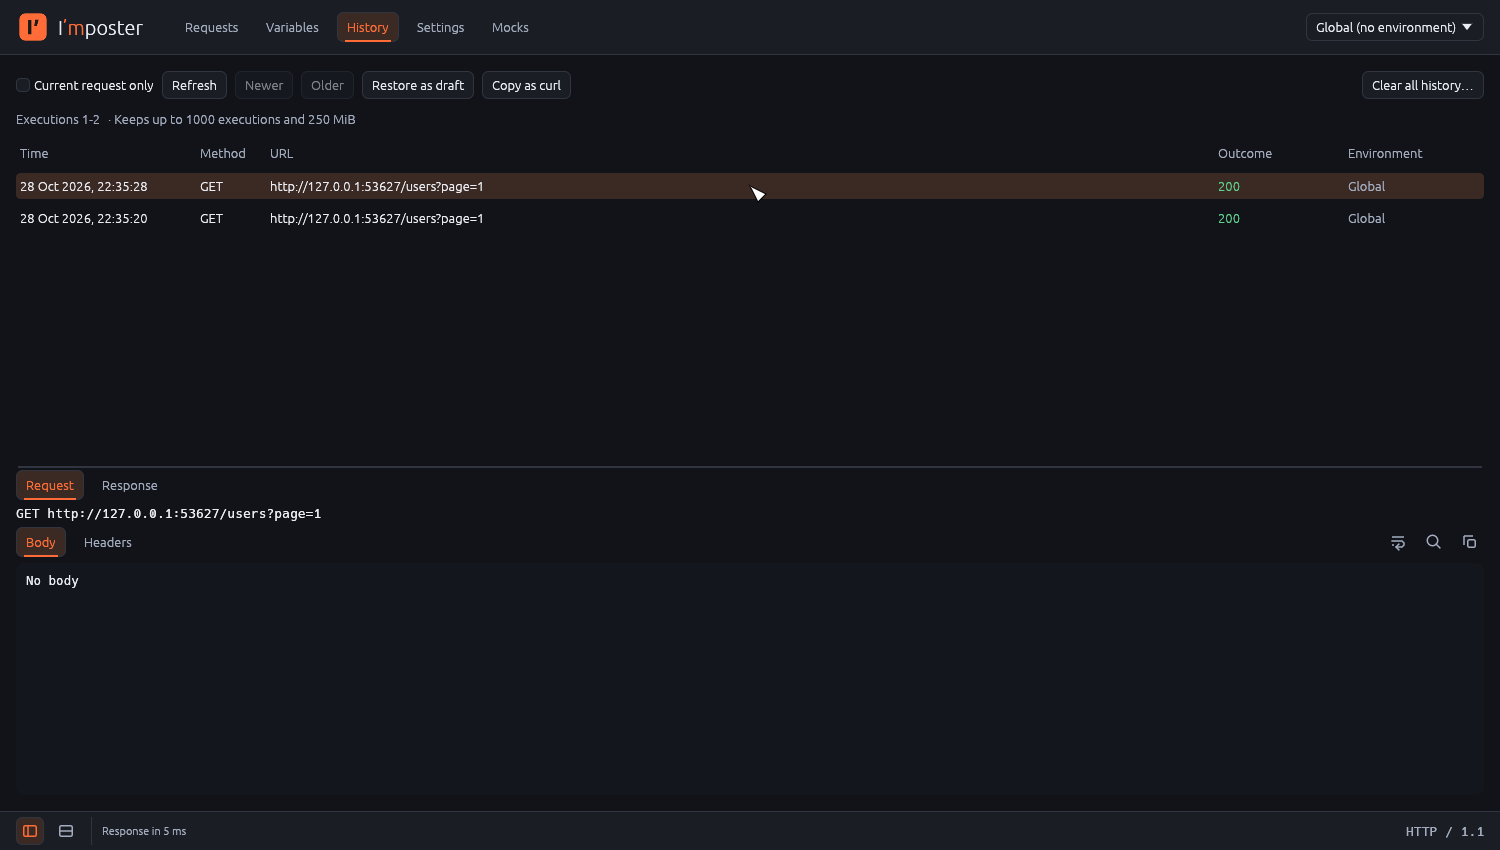
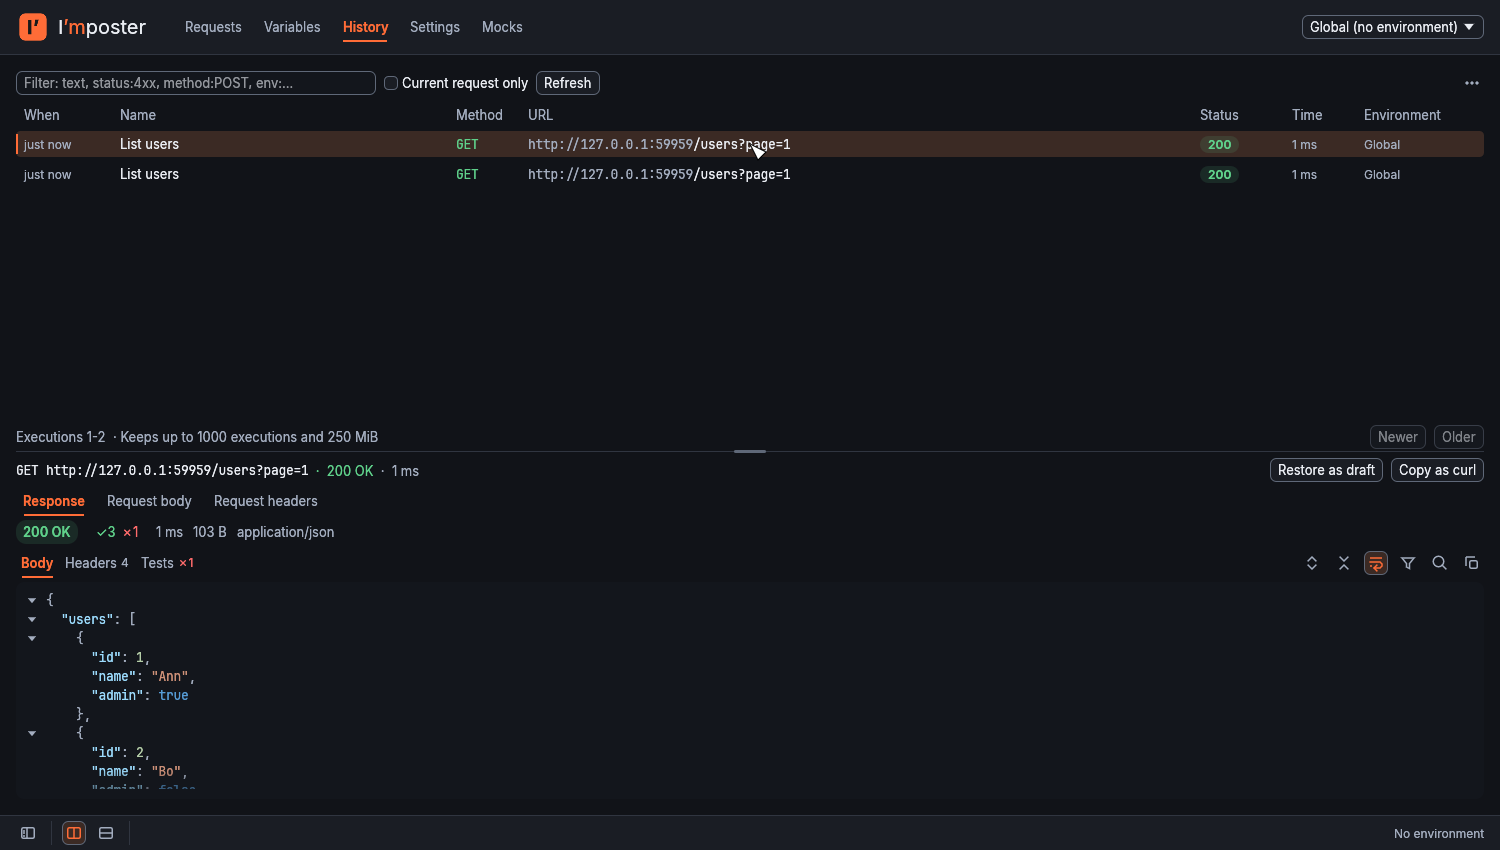
Refresh the README's screenshots and describe the light theme and density
The Requests and History screenshots show the reworked request bar, status
line and History table. The README listed only a dark theme and named other
themes as unsupported; it now describes Dark, Light and System themes and
the Compact and Comfortable densities.

diff --git a/README.md b/README.md
@@ -105,14 +105,15 @@ Python/PyQt6 version and imports its native collection format. New exports use `
 - Sidebar filter: text, `"phrases"`, `method:POST`, `url:users`, `name:…`, `-word`, OR.
 - Side-by-side or stacked request and response, switched from the status bar. Collections
   sidebar can be hidden. Splitter positions, window size and the last selection are restored.
-- Dark theme. Every control has an accessible name for screen readers; text colors meet
-  WCAG AA contrast.
+- Dark, light or system theme, and Compact or Comfortable density (Settings → Appearance).
+  Every control has an accessible name for screen readers; text colors meet WCAG AA
+  contrast in both themes, and control edges 3:1.
 
 ## Not supported
 
 Pre-request and test scripts; WebSocket, gRPC and GraphQL-specific tools; HTTP/2 (requests
 use HTTP/1.1); cloud sync and sharing; a persistent cookie jar (cookies are sent as you list
-them); themes other than the dark one.
+them).
 
 ## Installation
 
